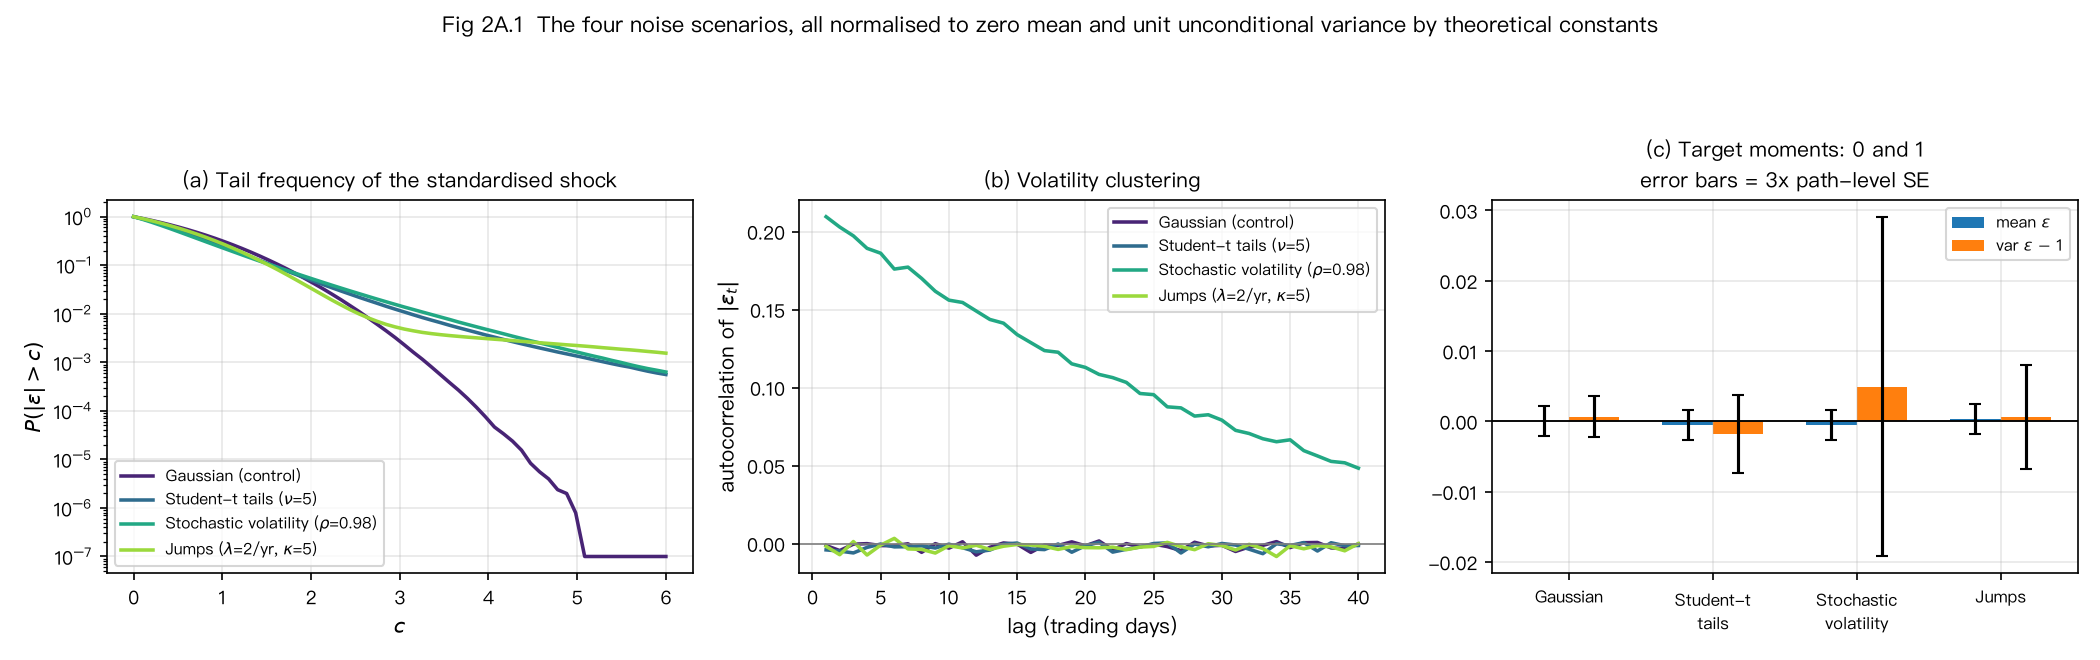
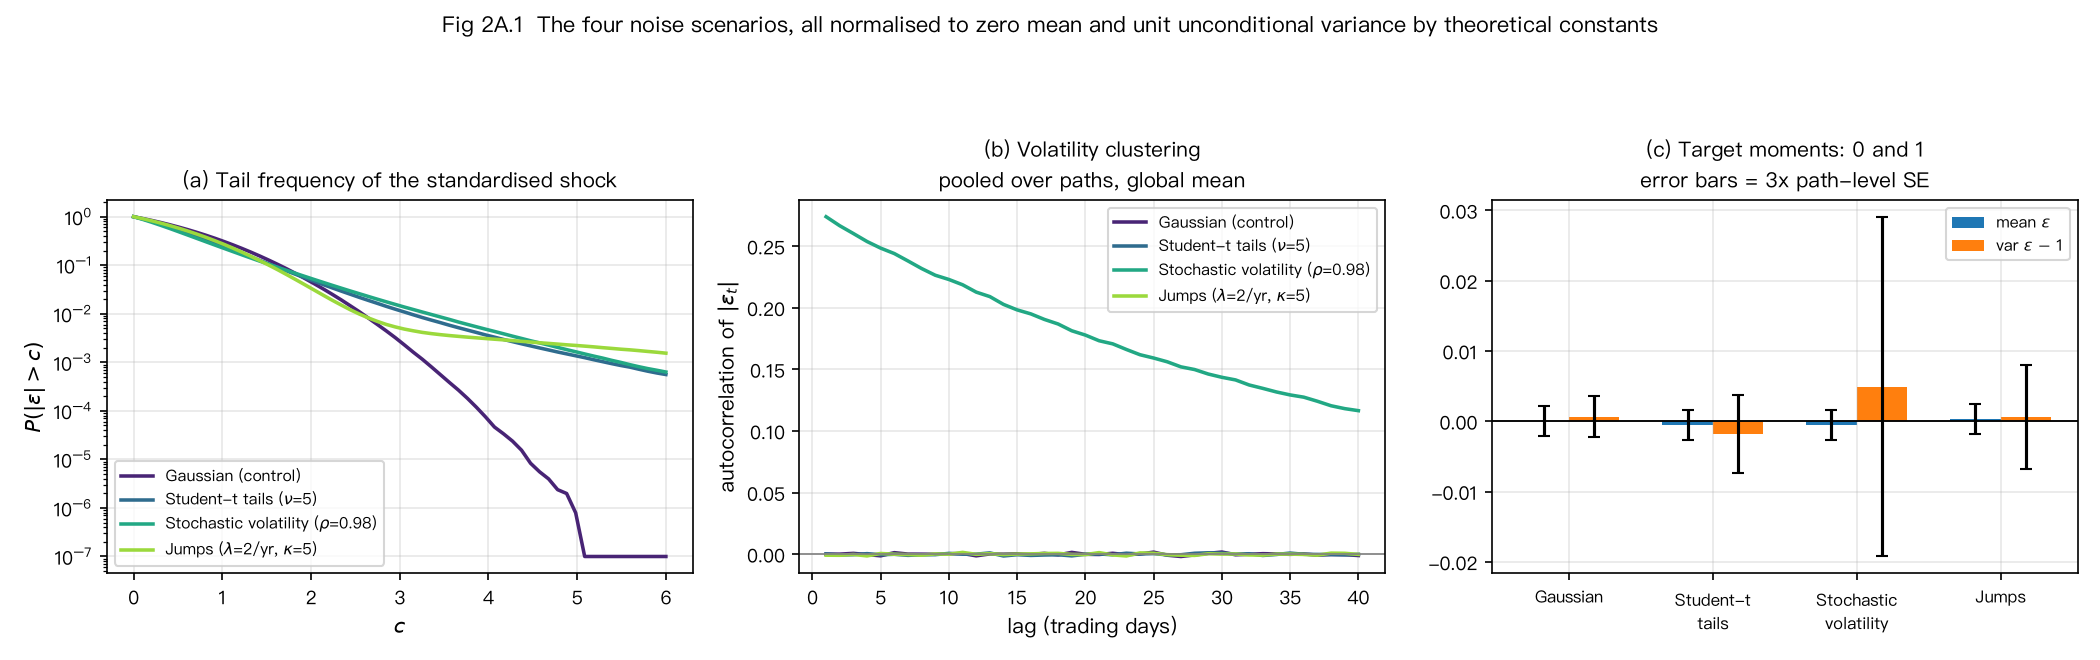
Stage 2A: pool the autocorrelation estimators; repair three test defects
An independent verification pass raised, and my own check confirmed, that both
persistence diagnostics demeaned each path by its OWN sample mean before
correlating. At rho = 0.98 the log-variance half-life is ~34 days inside a
504-day path, so the path mean absorbs the persistent level that creates the
autocorrelation being measured. Measured effect: the |eps| autocorrelation was
understated by 21% at lag 1 and 47% at lag 40, and the AR(1) estimate came out
0.97616 against a configured 0.98 -- 22.8 path-level standard errors low, printed
to four decimals as if it confirmed the setting.

Both now pool across paths and demean by the global mean, which the iid path
structure makes valid: the AR(1) estimate is 0.98024 and the lag-1 |eps|
autocorrelation 0.273. Figure 2A.1(b) and the report change accordingly.

Three test defects from the same pass, each verified before fixing:
- test_a_longer_draw_shares_its_prefix compared two IDENTICAL calls, so it was
  vacuous, and the property it named is false for all four models (a draw is
  filled row-major, so more days shifts every element). Replaced by one test for
  what it actually checked and one documenting the real behaviour, with a note
  that nothing in the codebase relies on prefix truncation.
- the "no sample moment is used" test never looked for the signature it names.
  It now asserts that per-path means and variances scatter, which a per-path
  standardisation would pin to exactly 0 and 1.
[…]

diff --git a/tests/test_noise.py b/tests/test_noise.py
@@ -99,15 +99,26 @@ def test_stochastic_volatility_persistence_and_stationarity():
     for t in (0, 1, 50, ND - 1):
         lo, hi = _path_level_ci(a[:, t] ** 2)
         assert lo <= amp2 <= hi, (t, lo, hi)
-    # lag-1 autocorrelation of the log-variance recovers rho
-    num = ((a[:, :-1] - a.mean()) * (a[:, 1:] - a.mean())).mean(axis=1)
-    den = ((a - a.mean()) ** 2).mean(axis=1)
-    rho_hat = (num / den).mean()
-    assert abs(rho_hat - CFG.noise_sv_rho) < 0.02
-    # volatility clustering is visible in |eps|
-    e = np.abs(d.eps)
-    ac1 = np.mean([np.corrcoef(e[i, :-1], e[i, 1:])[0, 1] for i in range(200)])
-    assert ac1 > 0.15
+    # the other three models must show no clustering at all
+    from strategy_survivorship.run_stage2a import pooled_autocorr
+
+    for other in ("gaussian", "student_t", "jump"):
+        assert abs(pooled_autocorr(np.abs(_draw(other).eps), 1)) < 0.01
+    # lag-1 autocorrelation must be POOLED: demeaning each path by its own mean
+    # removes the persistent level and biases the estimate ~23 SE low.
+    from strategy_survivorship.run_stage2a import pooled_autocorr
+
+    rho_hat = pooled_autocorr(a, 1)
+    # path-level SE of the per-path estimate, used as the tolerance scale
+    num = (a[:, :-1] * a[:, 1:]).mean(axis=1)
+    den = (a ** 2).mean(axis=1)
+    se = (num / den).std(ddof=1) / math.sqrt(a.shape[0])
+    assert abs(rho_hat - CFG.noise_sv_rho) < 6 * se, (rho_hat, se)
+    # and the per-path estimator is demonstrably the biased one
+    biased = (num / den).mean()
+    assert biased < CFG.noise_sv_rho - 2 * se
+    # volatility clustering is visible in |eps|, and only here
+    assert pooled_autocorr(np.abs(d.eps), 1) > 0.2
 
 
 def test_jump_frequency_matches_the_annual_intensity():
@@ -127,14 +138,21 @@ def test_jump_frequency_matches_the_annual_intensity():
 # --------------------------------------------------------------------------- #
 
 
-def test_zero_sv_amplitude_reproduces_gaussian_exactly():
-    """amp = 0 must give v_t == 1 and eps == z, i.e. the Gaussian model."""
+def test_zero_sv_amplitude_degenerates_to_the_gaussian_law():
+    """amp = 0 gives v_t == 1 exactly, so eps is the bare z stream.
+
+    It is NOT bit-identical to the gaussian generator: stoch_vol draws xi before
+    z, so the two consume the stream differently. What must hold is that the
+    variance multiplier collapses to exactly 1 and the resulting eps is standard
+    normal.
+    """
     cfg0 = replace(CFG, noise_sv_amplitude=0.0)
-    d = _draw("stoch_vol", cfg=cfg0, n_paths=200, n_days=100)
-    assert np.allclose(d.latent["variance_multiplier"], 1.0)
-    # eps is then exactly the z stream; check it is standard normal, not merely close
+    d = _draw("stoch_vol", cfg=cfg0, n_paths=400, n_days=200)
+    assert np.array_equal(d.latent["variance_multiplier"], np.ones_like(d.eps))
     lo, hi = _path_level_ci((d.eps ** 2).mean(axis=1))
     assert lo <= 1.0 <= hi
+    lo, hi = _path_level_ci(d.eps.mean(axis=1))
+    assert lo <= 0.0 <= hi
 
 
 @pytest.mark.parametrize("field,value", [("noise_jump_kappa", 0.0),
@@ -155,16 +173,28 @@ def test_zero_jump_amplitude_or_intensity_reproduces_gaussian_exactly(field, val
 
 
 @pytest.mark.parametrize("scenario", N.SCENARIOS)
-def test_a_longer_draw_shares_its_prefix(scenario):
-    """Generating more days must not change the earlier ones for a given stream.
+def test_same_stream_and_shape_reproduces_the_draw(scenario):
+    ss = np.random.SeedSequence(21)
+    a = N.draw_noise(scenario, ss, 50, 100, CFG).eps
+    b = N.draw_noise(scenario, ss, 50, 100, CFG).eps
+    assert np.array_equal(a, b)
 
-    Where it does, the reason must be structural (a differently-shaped draw from
-    the same generator), not a dependence on future data.
+
+@pytest.mark.parametrize("scenario", N.SCENARIOS)
+def test_a_longer_draw_does_NOT_share_its_prefix(scenario):
+    """Documents the real behaviour: a different n_days is a different draw.
+
+    A (n_paths, n_days) draw is filled row-major, so asking for more days shifts
+    every element. This is not a causality violation -- eps_t still depends only
+    on shocks up to t within a given draw -- but it does mean no experiment may
+    rely on truncating a longer draw to reproduce a shorter one. Nothing in the
+    codebase does: each scenario fixes n_days once and every group in the
+    switching experiment uses the same switch_max_days.
     """
     ss = np.random.SeedSequence(21)
-    short = N.draw_noise(scenario, ss, 50, 100, CFG).eps
-    long = N.draw_noise(scenario, ss, 50, 100, CFG).eps
-    assert np.array_equal(short, long)  # same shape, same stream -> identical
+    short = N.draw_noise(scenario, ss, 10, 100, CFG).eps
+    long = N.draw_noise(scenario, ss, 10, 200, CFG).eps
+    assert not np.array_equal(short, long[:, :100])
 
 
 def test_stochastic_volatility_is_causal_in_its_own_shocks():
@@ -191,20 +221,23 @@ def test_stochastic_volatility_is_causal_in_its_own_shocks():
 
 
 def test_no_sample_moment_of_the_path_is_used_in_the_construction():
-    """Scaling one path must not change any other path's eps.
+    """A per-path standardisation would leave every path with mean 0 and sd 1.
 
-    A sample-based standardisation (de-meaning or dividing by a sample sd) would
-    couple days within a path to that path's whole history including its future;
-    this checks the weaker, testable consequence that paths stay independent.
+    That is the observable signature of the leak this rule forbids: if the code
+    divided by a path's own sample sd, the per-path sample variances would be
+    pinned at exactly 1 with no scatter, and the per-path means at exactly 0.
+    Both must scatter at the size sampling theory predicts.
     """
-    ss = np.random.SeedSequence(31)
+    n_days = 400
     for scenario in N.SCENARIOS:
-        a = N.draw_noise(scenario, ss, 100, 200, CFG).eps
-        b = N.draw_noise(scenario, ss, 100, 200, CFG).eps
-        assert np.array_equal(a, b)
-        # a path's own mean is not removed: per-path means scatter around 0
-        pm = a.mean(axis=1)
-        assert pm.std(ddof=1) > 0.5 * (1.0 / math.sqrt(200))
+        eps = _draw(scenario, seed=31, n_paths=600, n_days=n_days).eps
+        pm, pv = eps.mean(axis=1), eps.var(axis=1, ddof=1)
+        # a de-meaned path would give pm identically 0
+        assert pm.std(ddof=1) > 0.5 / math.sqrt(n_days), scenario
+        assert np.abs(pm).max() > 1e-8, scenario
+        # a sample-sd-standardised path would give pv identically 1
+        assert pv.std(ddof=1) > 1e-3, scenario
+        assert not np.allclose(pv, 1.0, atol=1e-6), scenario
 
 
 def test_true_sigma_is_exposed_only_where_it_exists():

diff --git a/src/strategy_survivorship/noise.py b/src/strategy_survivorship/noise.py
@@ -48,8 +48,9 @@ def student_t_noise(rng: np.random.Generator, n_paths: int, n_days: int, cfg) ->
     """Standardised Student-t: eps = sqrt((nu-2)/nu) * X, X ~ t_nu.
 
     Var(X) = nu/(nu-2), so the constant gives Var(eps) = 1 exactly.  Requires
-    nu > 2; the fourth moment exists only for nu > 4, so sample kurtosis is a
-    very noisy statistic here and is not used as an acceptance test.
+    nu > 2.  At nu = 5 the fourth moment exists but the EIGHTH does not, so the
+    sample kurtosis has infinite sampling variance and is unusable as an
+    acceptance statistic; tail frequencies are checked instead.
     """
     nu = cfg.noise_student_t_df
     if nu <= 2:
@@ -64,8 +65,12 @@ def stoch_vol_noise(rng: np.random.Generator, n_paths: int, n_days: int, cfg) ->
         a_t = rho a_{t-1} + sqrt(1-rho^2) xi_t,   a_0 ~ N(0,1)
         v_t = exp(a_t - 1/2),   eps_t = sqrt(v_t) z_t
 
-    a_t is marginally N(0,1) for every t, so E[v_t] = exp(-1/2)E[exp(a_t)] =
-    exp(-1/2)exp(1/2) = 1 and Var(eps_t) = E[v_t]E[z_t^2] = 1 unconditionally.
+    The recursion gives a_t ~ N(0,1) marginally for every t (a_0 is drawn from
+    that stationary law), and the code then scales it by `amp`, so the process
+    used is N(0, amp^2).  With v_t = exp(a_t - amp^2/2) the log-normal mean is
+    E[v_t] = exp(-amp^2/2) exp(amp^2/2) = 1 for ANY amp, hence
+    Var(eps_t) = E[v_t] E[z_t^2] = 1 unconditionally.  amp = 1 is the configured
+    setting, not a requirement of the construction.
     The true daily volatility is sigma_0*sqrt(v_t); the drift is NOT scaled by
     v_t, so the long-run Sharpe stays S while the conditional Sharpe moves.
     """
@@ -133,7 +138,12 @@ def returns_from_noise(eps: np.ndarray, sharpe_annual: float, cfg) -> np.ndarray
 def true_daily_sigma(draw: NoiseDraw, cfg) -> np.ndarray | None:
     """The realised conditional daily volatility, for the ORACLE detector only.
 
-    Returns ``None`` for scenarios whose conditional scale is constant.
+    Defined only for ``stoch_vol``, where the conditional scale is a persistent
+    latent state an adaptive rule could in principle track.  The jump model also
+    has a non-constant conditional scale given K_t, but that scale is an
+    unpredictable one-day event rather than a state, so a "known current
+    variance" oracle is not the right idealisation for it; that scenario is out
+    of scope for the oracle this round rather than constant-scale.
     """
     if draw.scenario != "stoch_vol":
         return None

diff --git a/src/strategy_survivorship/run_stage2a.py b/src/strategy_survivorship/run_stage2a.py
@@ -27,6 +27,22 @@ from .simulate import stream_fingerprint, make_streams
 from .stage2a import LABEL_2A, run_scenario, scenario_streams
 
 
+def pooled_autocorr(x: np.ndarray, lag: int) -> float:
+    """Lag-`lag` autocorrelation pooled over paths, demeaned by the GLOBAL mean.
+
+    Demeaning each path by its own sample mean removes the persistent level that
+    creates the autocorrelation being measured: at rho = 0.98 the log-variance
+    half-life is ~34 days inside a 504-day path, so the path mean absorbs most of
+    it. Measured here, per-path demeaning understates the |eps| autocorrelation by
+    about 21% at lag 1 and 47% at lag 40, and drags the AR(1) estimate 23 standard
+    errors below the configured rho. The paths are iid, so pooling is valid.
+    """
+    mu = x.mean()
+    num = ((x[:, :-lag] - mu) * (x[:, lag:] - mu)).mean()
+    den = ((x - mu) ** 2).mean()
+    return float(num / den)
+
+
 def noise_diagnostics(cfg: Stage1Config, n_paths: int = 4000) -> pd.DataFrame:
     """Moments, tails and structure of each noise model, with path-level errors."""
     import math
@@ -51,15 +67,9 @@ def noise_diagnostics(cfg: Stage1Config, n_paths: int = 4000) -> pd.DataFrame:
             f = (np.abs(e) > c).mean(axis=1)
             row[f"p_abs_gt_{c:g}"] = float(f.mean())
             row[f"p_abs_gt_{c:g}_se"] = float(f.std(ddof=1) / math.sqrt(n_paths))
-        ae = np.abs(e[:500])
-        row["abs_eps_lag1_autocorr"] = float(
-            np.mean([np.corrcoef(ae[i, :-1], ae[i, 1:])[0, 1] for i in range(ae.shape[0])])
-        )
+        row["abs_eps_lag1_autocorr"] = pooled_autocorr(np.abs(e), 1)
         if sc == "stoch_vol":
-            a = d.latent["log_var"]
-            num = ((a[:, :-1] - a.mean()) * (a[:, 1:] - a.mean())).mean(axis=1)
-            den = ((a - a.mean()) ** 2).mean(axis=1)
-            row["log_var_lag1_autocorr"] = float((num / den).mean())
+            row["log_var_lag1_autocorr"] = pooled_autocorr(d.latent["log_var"], 1)
             row["true_sigma_ratio_p90_p10"] = float(
                 np.quantile(np.sqrt(d.latent["variance_multiplier"]), 0.9)
                 / np.quantile(np.sqrt(d.latent["variance_multiplier"]), 0.1)

diff --git a/src/strategy_survivorship/plots_stage2a.py b/src/strategy_survivorship/plots_stage2a.py
@@ -44,13 +44,15 @@ def figure_noise_diagnostics(cfg: Stage1Config, per_scenario: dict, diag, out: P
     for c, sc in zip(cols, scs):
         eps = (per_scenario[sc]["block"]["test_valid"]["returns"]
                - cfg.daily_drift(cfg.sharpe_valid)) / cfg.sigma_daily
-        a = np.abs(eps[:400])
+        from .run_stage2a import pooled_autocorr
+
+        a = np.abs(eps)
         lags = np.arange(1, 41)
-        ac = [np.mean([np.corrcoef(a[i, :-l], a[i, l:])[0, 1] for i in range(a.shape[0])]) for l in lags]
-        ax.plot(lags, ac, color=c, lw=1.7, label=SC_LABEL[sc])
+        ax.plot(lags, [pooled_autocorr(a, int(l)) for l in lags], color=c, lw=1.7,
+                label=SC_LABEL[sc])
     ax.axhline(0, color="0.5", lw=0.8)
     ax.set_xlabel("lag (trading days)"); ax.set_ylabel("autocorrelation of $|\\varepsilon_t|$")
-    ax.set_title("(b) Volatility clustering", fontsize=10)
+    ax.set_title("(b) Volatility clustering\npooled over paths, global mean", fontsize=10)
     ax.legend(fontsize=7.6); ax.grid(alpha=0.3)
 
     ax = axes[2]

diff --git a/src/strategy_survivorship/report_stage2a.py b/src/strategy_survivorship/report_stage2a.py
@@ -104,6 +104,10 @@ def write_stage2a_report(cfg, summary, metrics: pd.DataFrame, diag: pd.DataFrame
     A("误差为**路径级**（路径之间独立，路径内的交易日不独立——ρ=0.98 时对数方差半衰期约 34 天，"
       "把所有 path-day 当独立样本会严重低估误差）。")
     A("")
+    A("自相关一律**跨路径池化、用全局均值去心**。按每条路径自己的样本均值去心会把携带持续性的"
+      "低频成分一起减掉：实测下它把 |ε| 的一阶自相关低估约 21%、四十阶低估约 47%，"
+      "并把 AR(1) 估计拉到设定 ρ 以下约 23 个标准误。池化估计与设定值一致。")
+    A("")
     L.extend(_t(diag.to_dict("records"),
                 ["情境", "均值 ± 3SE", "方差 ± 3SE", "P(abs ε>2)", "P(abs ε>4)", "P(abs ε>6)", "abs ε 一阶自相关"],
                 lambda r: [SC[r["scenario"]],
